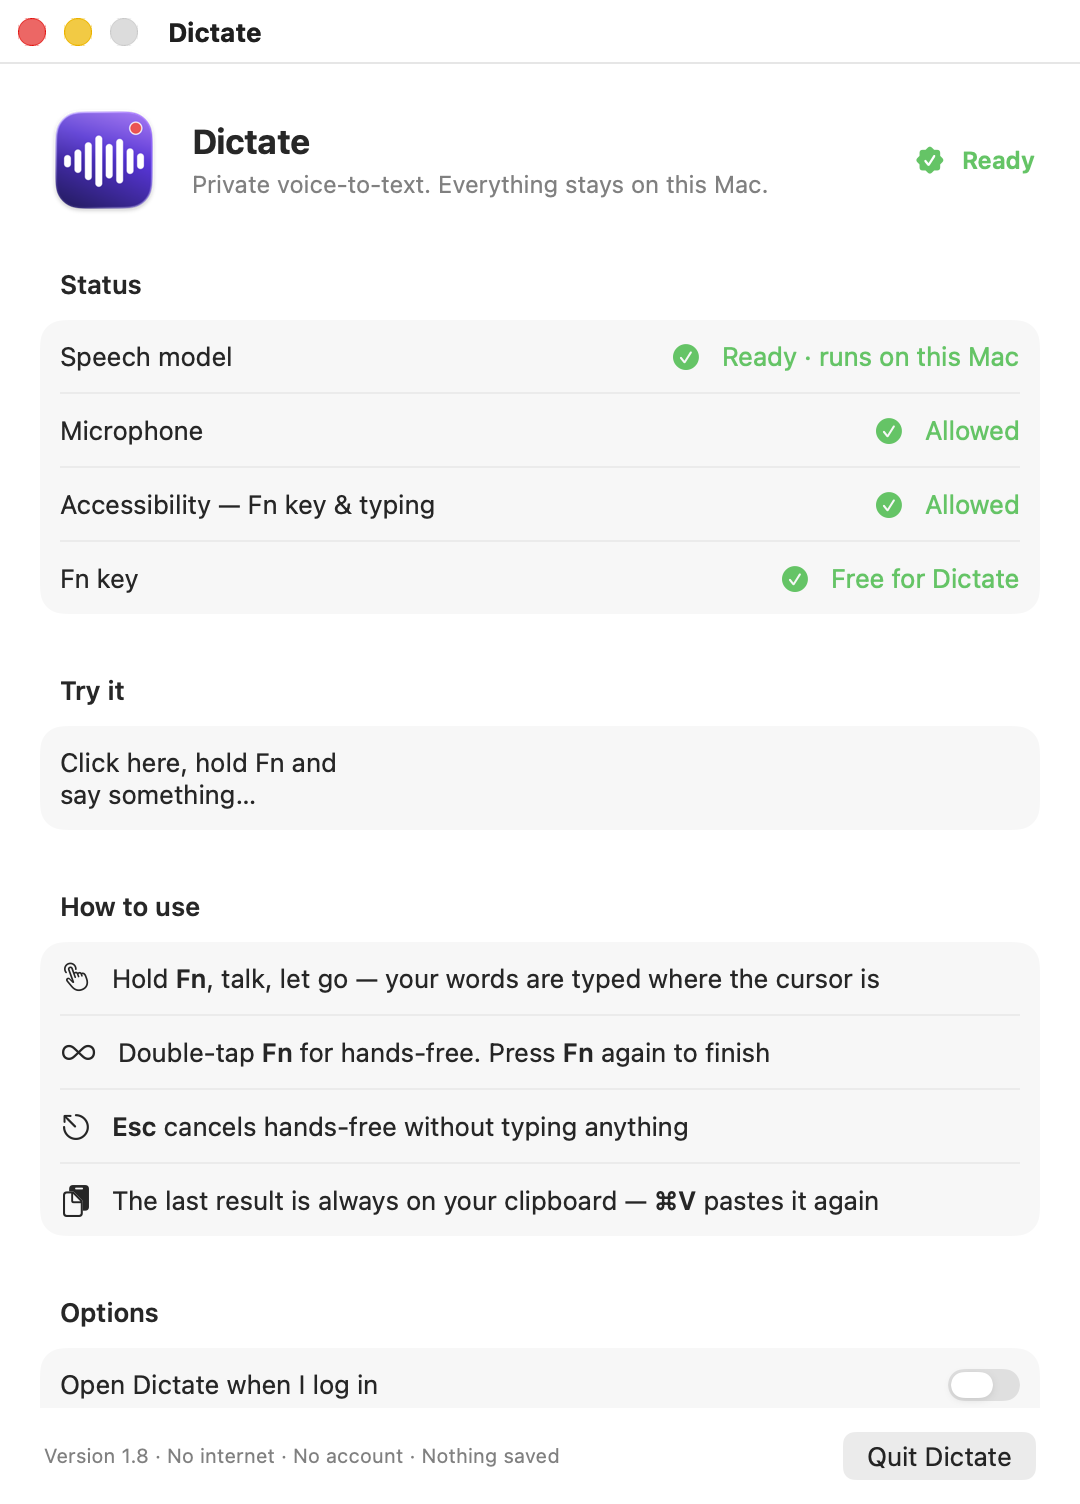
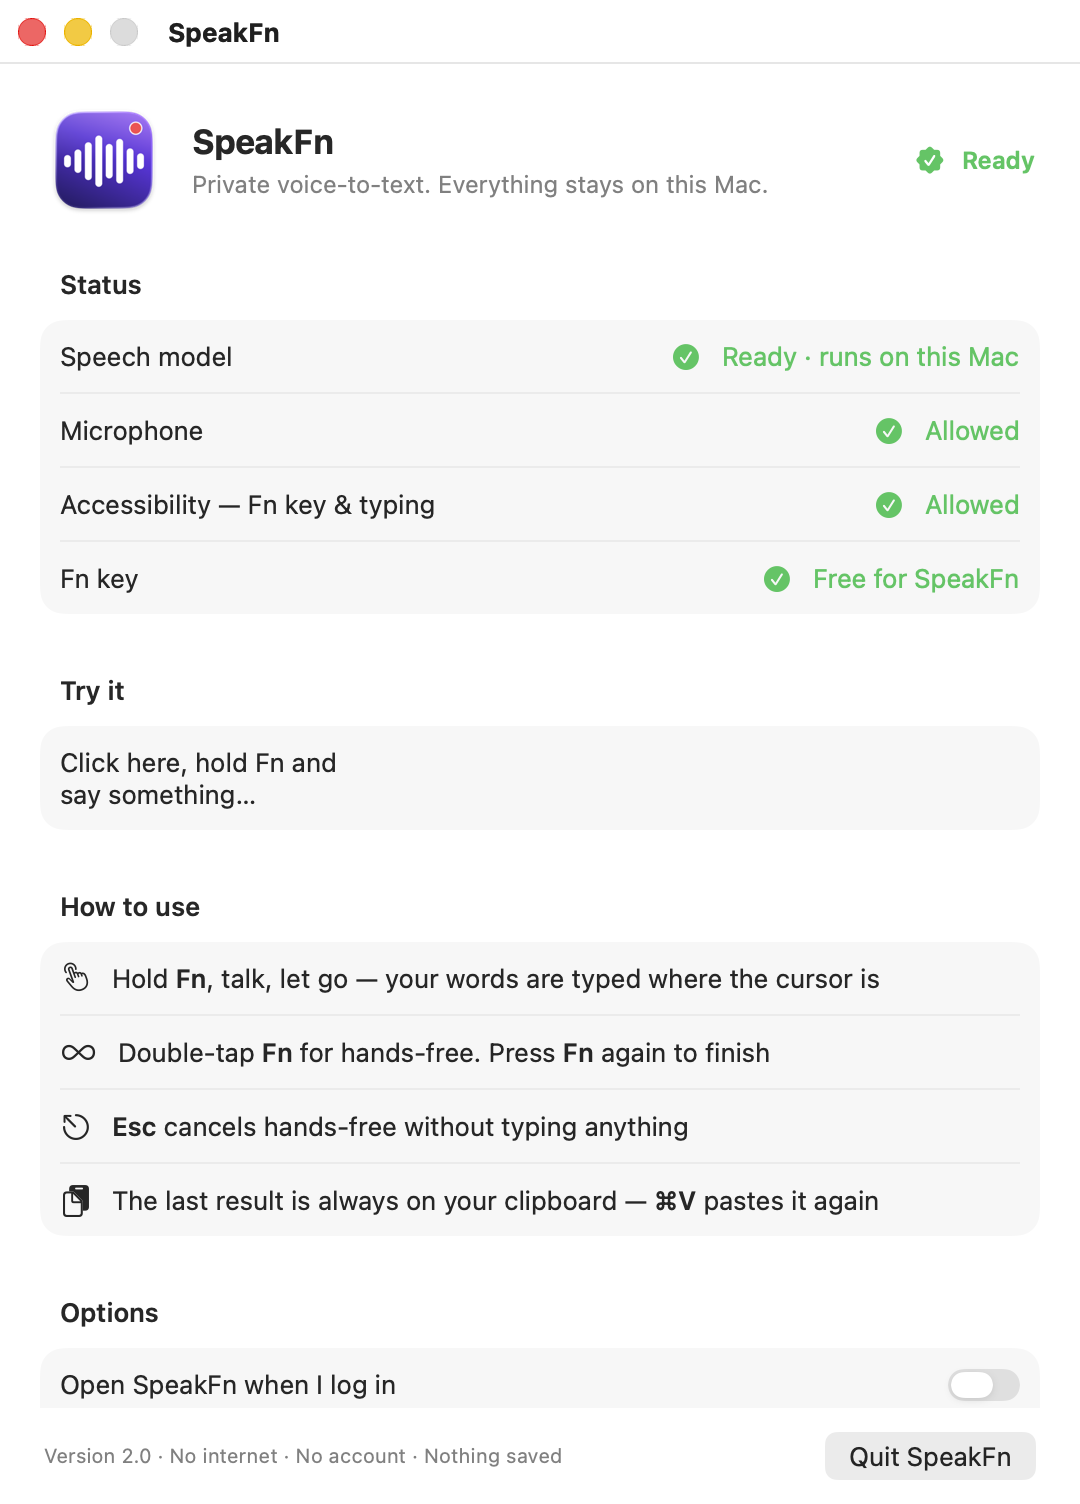
Rename Dictate to SpeakFn
"Dictate" matched over a thousand repositories, so the project gets a
distinctive name. Renames the app, Swift target, icon, build script, CI
and README, and refreshes the settings screenshot. The bundle identifier
stays local.dictate so existing permissions and preferences carry over.

diff --git a/Sources/SpeakFn/AppController.swift b/Sources/SpeakFn/AppController.swift
@@ -81,10 +81,10 @@ final class AppController: NSObject, NSApplicationDelegate {
         if !launchedAtLogin || !AXIsProcessTrusted() { settings.show() }
     }
 
-    /// Closing the window never quits — Dictate keeps listening for Fn until you choose Quit.
+    /// Closing the window never quits — SpeakFn keeps listening for Fn until you choose Quit.
     func applicationShouldTerminateAfterLastWindowClosed(_ sender: NSApplication) -> Bool { false }
 
-    /// Opening Dictate again (Finder, Spotlight, Dock) shows the Settings window.
+    /// Opening SpeakFn again (Finder, Spotlight, Dock) shows the Settings window.
     func applicationShouldHandleReopen(_ sender: NSApplication, hasVisibleWindows flag: Bool) -> Bool {
         settings.show()
         return true
@@ -402,18 +402,18 @@ final class AppController: NSObject, NSApplicationDelegate {
         case .loading:
             toaster.show(
                 ToastModel(
-                    symbol: "hourglass", tint: .blue, title: "Dictate is starting up",
+                    symbol: "hourglass", tint: .blue, title: "SpeakFn is starting up",
                     message: "The speech model is loading — try again in a few seconds."), seconds: 3)
         case .downloading:
             toaster.show(
                 ToastModel(
                     symbol: "arrow.down.circle", tint: .blue, title: "Downloading speech model",
-                    message: "This happens once. Dictate will be ready when it finishes."), seconds: 3)
+                    message: "This happens once. SpeakFn will be ready when it finishes."), seconds: 3)
         default:
             toaster.show(
                 ToastModel(
                     symbol: "exclamationmark.triangle.fill", tint: .orange, title: "Speech model not installed",
-                    message: "Open Dictate's settings to set it up.",
+                    message: "Open SpeakFn's settings to set it up.",
                     action: ToastAction(title: "Open") { [weak self] in self?.settings.show() }))
         }
     }
@@ -423,7 +423,7 @@ final class AppController: NSObject, NSApplicationDelegate {
             toaster.show(
                 ToastModel(
                     symbol: "mic.slash.fill", tint: .red, title: "Microphone access is off",
-                    message: "Allow Dictate to use the microphone in System Settings.",
+                    message: "Allow SpeakFn to use the microphone in System Settings.",
                     action: ToastAction(title: "Open") { openPrivacyPane("Privacy_Microphone") }))
         } else {
             toaster.show(
@@ -435,23 +435,23 @@ final class AppController: NSObject, NSApplicationDelegate {
 
     // MARK: Menu bar
 
-    /// The app's own menu bar (shown while Dictate is the active app).
+    /// The app's own menu bar (shown while SpeakFn is the active app).
     func buildMainMenu() {
         let main = NSMenu()
 
         let appItem = NSMenuItem()
         let appMenu = NSMenu()
-        appMenu.addItem(withTitle: "About Dictate", action: #selector(showAbout), keyEquivalent: "").target = self
+        appMenu.addItem(withTitle: "About SpeakFn", action: #selector(showAbout), keyEquivalent: "").target = self
         appMenu.addItem(.separator())
         appMenu.addItem(withTitle: "Settings…", action: #selector(openSettings), keyEquivalent: ",").target = self
         appMenu.addItem(.separator())
-        appMenu.addItem(withTitle: "Hide Dictate", action: #selector(NSApplication.hide(_:)), keyEquivalent: "h")
+        appMenu.addItem(withTitle: "Hide SpeakFn", action: #selector(NSApplication.hide(_:)), keyEquivalent: "h")
         let hideOthers = appMenu.addItem(
             withTitle: "Hide Others", action: #selector(NSApplication.hideOtherApplications(_:)), keyEquivalent: "h")
         hideOthers.keyEquivalentModifierMask = [.command, .option]
         appMenu.addItem(withTitle: "Show All", action: #selector(NSApplication.unhideAllApplications(_:)), keyEquivalent: "")
         appMenu.addItem(.separator())
-        appMenu.addItem(withTitle: "Quit Dictate", action: #selector(NSApplication.terminate(_:)), keyEquivalent: "q")
+        appMenu.addItem(withTitle: "Quit SpeakFn", action: #selector(NSApplication.terminate(_:)), keyEquivalent: "q")
         appItem.submenu = appMenu
         main.addItem(appItem)
 
@@ -498,7 +498,7 @@ final class AppController: NSObject, NSApplicationDelegate {
         menu.addItem(withTitle: "Copy Last Transcript", action: #selector(copyLast), keyEquivalent: "c")
         menu.addItem(withTitle: "Settings…", action: #selector(openSettings), keyEquivalent: ",")
         menu.addItem(.separator())
-        menu.addItem(withTitle: "Quit Dictate", action: #selector(quit), keyEquivalent: "q")
+        menu.addItem(withTitle: "Quit SpeakFn", action: #selector(quit), keyEquivalent: "q")
         for item in menu.items where item.action != nil { item.target = self }
         statusItem.menu = menu
         indicator = MenuBarIndicator(item: statusItem, meter: meter)

diff --git a/Sources/SpeakFn/Settings.swift b/Sources/SpeakFn/Settings.swift
@@ -41,7 +41,7 @@ final class Prefs: ObservableObject {
     @Published var accessibilityAllowed = false
     /// macOS's "Press 🌐 key to" setting must be "Do Nothing", or Fn also opens the emoji picker etc.
     @Published var fnKeyFree = true
-    /// Recent transcripts — memory only, gone when Dictate quits.
+    /// Recent transcripts — memory only, gone when SpeakFn quits.
     @Published var history: [HistoryItem] = []
 
     private init() {
@@ -152,7 +152,7 @@ struct SettingsView: View {
         HStack(spacing: 14) {
             Image(nsImage: NSApp.applicationIconImage).resizable().frame(width: 60, height: 60)
             VStack(alignment: .leading, spacing: 3) {
-                Text("Dictate").font(.title2.weight(.bold))
+                Text("SpeakFn").font(.title2.weight(.bold))
                 Text("Private voice-to-text. Everything stays on this Mac.")
                     .font(.callout).foregroundStyle(.secondary)
             }
@@ -195,7 +195,7 @@ struct SettingsView: View {
                 ok: prefs.accessibilityAllowed, actionTitle: "Fix…",
                 action: { openPrivacyPane("Privacy_Accessibility") })
             StatusRow(
-                title: "Fn key", detail: prefs.fnKeyFree ? "Free for Dictate" : "Also used by macOS",
+                title: "Fn key", detail: prefs.fnKeyFree ? "Free for SpeakFn" : "Also used by macOS",
                 ok: prefs.fnKeyFree, actionTitle: "Fix…",
                 action: {
                     NSWorkspace.shared.open(URL(string: "x-apple.systempreferences:com.apple.Keyboard-Settings.extension")!)
@@ -210,7 +210,7 @@ struct SettingsView: View {
     private var optionsSection: some View {
         Section("Options") {
             Toggle(
-                "Open Dictate when I log in",
+                "Open SpeakFn when I log in",
                 isOn: Binding(get: { prefs.launchAtLogin }, set: { prefs.setLaunchAtLogin($0) }))
             if prefs.loginNeedsApproval {
                 HStack {
@@ -221,7 +221,7 @@ struct SettingsView: View {
             }
             Toggle("Type the text for me (off = copy to clipboard only)", isOn: $prefs.autoPaste)
             Toggle("Show the recording pill", isOn: $prefs.showPill)
-            Toggle("Show Dictate in the Dock (off = menu bar only)", isOn: $prefs.showInDock)
+            Toggle("Show SpeakFn in the Dock (off = menu bar only)", isOn: $prefs.showInDock)
             Toggle("Play sounds", isOn: $prefs.sounds)
             if prefs.sounds {
                 HStack(spacing: 10) {
@@ -262,7 +262,7 @@ struct SettingsView: View {
             Text("Version \(appVersion) · No internet · No account · Nothing saved")
                 .font(.caption).foregroundStyle(.secondary)
             Spacer()
-            Button("Quit Dictate") { NSApp.terminate(nil) }
+            Button("Quit SpeakFn") { NSApp.terminate(nil) }
         }
         .padding(.horizontal, 22).padding(.vertical, 12)
     }
@@ -286,7 +286,7 @@ private struct CopyButton: View {
     }
 }
 
-/// While the Settings window is open Dictate shows in the Dock and ⌘-Tab; otherwise it lives in the menu bar.
+/// While the Settings window is open SpeakFn shows in the Dock and ⌘-Tab; otherwise it lives in the menu bar.
 final class SettingsWindowController: NSObject, NSWindowDelegate {
     private var window: NSWindow?
     var onDownloadModel: () -> Void = {}
@@ -296,7 +296,7 @@ final class SettingsWindowController: NSObject, NSWindowDelegate {
             let w = NSWindow(
                 contentRect: NSRect(x: 0, y: 0, width: 540, height: 720),
                 styleMask: [.titled, .closable, .miniaturizable], backing: .buffered, defer: false)
-            w.title = "Dictate"
+            w.title = "SpeakFn"
             w.isReleasedWhenClosed = false
             w.contentViewController = NSHostingController(
                 rootView: SettingsView(onDownloadModel: { [weak self] in self?.onDownloadModel() }))
@@ -310,7 +310,7 @@ final class SettingsWindowController: NSObject, NSWindowDelegate {
         window?.makeKeyAndOrderFront(nil)
     }
 
-    /// Closing the window keeps Dictate running (Fn still works). Only Quit stops it.
+    /// Closing the window keeps SpeakFn running (Fn still works). Only Quit stops it.
     func windowWillClose(_ notification: Notification) {
         Prefs.shared.applyDockPolicy(windowOpen: false)
     }

diff --git a/Sources/SpeakFn/Support.swift b/Sources/SpeakFn/Support.swift
@@ -11,7 +11,7 @@ let appVersion = Bundle.main.object(forInfoDictionaryKey: "CFBundleShortVersionS
 // MARK: - Diagnostic log
 // Off by default. Records key events and state changes only — never audio or transcript text.
 
-let logURL = FileManager.default.homeDirectoryForCurrentUser.appendingPathComponent("Library/Logs/Dictate.log")
+let logURL = FileManager.default.homeDirectoryForCurrentUser.appendingPathComponent("Library/Logs/SpeakFn.log")
 private let logQueue = DispatchQueue(label: "dictate.log")
 private let logFormatter = ISO8601DateFormatter()
 

diff --git a/Package.swift b/Package.swift
@@ -2,16 +2,16 @@
 import PackageDescription
 
 let package = Package(
-    name: "Dictate",
+    name: "SpeakFn",
     platforms: [.macOS(.v14)],
     dependencies: [
         .package(url: "https://github.com/FluidInference/FluidAudio.git", from: "0.7.0"),
     ],
     targets: [
         .executableTarget(
-            name: "Dictate",
+            name: "SpeakFn",
             dependencies: [.product(name: "FluidAudio", package: "FluidAudio")],
-            path: "Sources/Dictate"
+            path: "Sources/SpeakFn"
         ),
     ]
 )

diff --git a/Sources/SpeakFn/MenuBarIndicator.swift b/Sources/SpeakFn/MenuBarIndicator.swift
@@ -41,7 +41,7 @@ final class MenuBarIndicator {
 
     private func showIdle() {
         guard let button = item.button else { return }
-        let image = NSImage(systemSymbolName: "waveform", accessibilityDescription: "Dictate")
+        let image = NSImage(systemSymbolName: "waveform", accessibilityDescription: "SpeakFn")
         image?.isTemplate = true
         button.image = image
         button.attributedTitle = NSAttributedString(string: "")

diff --git a/scripts/make-icon.swift b/scripts/make-icon.swift
@@ -1,5 +1,5 @@
 import AppKit
-// Draws the Dictate icon: a deep indigo→violet rounded square with a white voice waveform and a red "live" dot.
+// Draws the SpeakFn icon: a deep indigo→violet rounded square with a white voice waveform and a red "live" dot.
 let size: CGFloat = 1024
 let img = NSImage(size: NSSize(width: size, height: size))
 img.lockFocus()

diff --git a/Sources/SpeakFn/main.swift b/Sources/SpeakFn/main.swift
@@ -1,4 +1,4 @@
-// Dictate — private, fully local push-to-talk dictation for macOS.
+// SpeakFn — private, fully local push-to-talk dictation for macOS.
 // Entry point. `--transcribe <file>` prints a transcript (handy for checking the model).
 
 import AppKit

diff --git a/README.md b/README.md
@@ -1,15 +1,15 @@
 <p align="center">
-  <img src="icon/icon-1024.png" width="128" alt="Dictate app icon">
+  <img src="icon/icon-1024.png" width="128" alt="SpeakFn app icon">
 </p>
 
-<h1 align="center">Dictate</h1>
+<h1 align="center">SpeakFn</h1>
 
 <p align="center">
   Hold Fn, talk, and let go. Your words show up wherever you're typing.
 </p>
 
 <p align="center">
-  <a href="https://github.com/Wave-Drop-Maps/Dictate/actions/workflows/build.yml"><img src="https://github.com/Wave-Drop-Maps/Dictate/actions/workflows/build.yml/badge.svg" alt="Build status"></a>
+  <a href="https://github.com/Wave-Drop-Maps/SpeakFn/actions/workflows/build.yml"><img src="https://github.com/Wave-Drop-Maps/SpeakFn/actions/workflows/build.yml/badge.svg" alt="Build status"></a>
   <img src="https://img.shields.io/badge/macOS-14%2B-black?logo=apple" alt="macOS 14 or later">
   <img src="https://img.shields.io/badge/Apple%20Silicon-M1%2B-black" alt="Apple Silicon">
   <img src="https://img.shields.io/badge/Swift-5.10-F05138?logo=swift&logoColor=white" alt="Swift 5.10">
@@ -23,18 +23,19 @@
   <img src="docs/notice.png" width="364" alt="The notice shown when no text box is selected, with a Copy button">
 </p>
 
-Dictate is a free, open-source dictation app for the Mac. It runs entirely on your computer, so there's no
-account, no subscription and no word limit, and nothing you say is ever sent anywhere.
+SpeakFn is a free, open-source dictation app for the Mac, and an offline alternative to Wispr Flow and
+Superwhisper. It runs entirely on your computer, so there's no account, no subscription and no word limit, and
+nothing you say is ever sent anywhere.
 
-## Why Dictate?
+## Why SpeakFn?
 
 Most dictation apps send your voice to their servers to turn it into text. Many also collect the text around
 your cursor for context, charge a monthly fee, and limit how much you can say on the free plan.
 
-Dictate does the work on your Mac instead. It uses NVIDIA's Parakeet speech model running on the Neural Engine,
+SpeakFn does the work on your Mac instead. It uses NVIDIA's Parakeet speech model running on the Neural Engine,
 which makes it fast and accurate, and it keeps working with your Wi-Fi switched off.
 
-| | Typical cloud dictation app | Dictate |
+| | Typical cloud dictation app | SpeakFn |
 |---|---|---|
 | Where your voice goes | Their servers | Nowhere. It stays on your Mac. |
 | Account | Required | Not needed |
@@ -50,7 +51,7 @@ which makes it fast and accurate, and it keeps working with your Wi-Fi switched 
 - **Every result is copied too.** If the text doesn't land where you expected, just press ⌘V.
 - **It tells you when there's nowhere to type.** If no text box is selected, you'll see a small notice with a
   Copy button rather than your words quietly disappearing. This works in regular apps and in your browser.
-- **Smart spacing.** Dictate adds a space when you start talking straight after a word.
+- **Smart spacing.** SpeakFn adds a space when you start talking straight after a word.
 - **You can always tell it's listening.** A small waveform appears at the bottom of the screen and the menu bar
   shows a timer while you talk.
 - **It stays out of your way.** Your usual Fn shortcuts, like Fn with an arrow key, still work, and accidental
@@ -58,7 +59,7 @@ which makes it fast and accurate, and it keeps working with your Wi-Fi switched 
 - **It's lightweight.** It's about 1,600 lines of Swift, and when idle it uses no CPU and around 30 MB of memory.
 
 <p align="center">
-  <img src="docs/settings.png" width="460" alt="Dictate's settings window, showing setup status, instructions and options">
+  <img src="docs/settings.png" width="460" alt="SpeakFn's settings window, showing setup status, instructions and options">
 </p>
 
 ## What you need
@@ -69,35 +70,35 @@ which makes it fast and accurate, and it keeps working with your Wi-Fi switched 
 ## Installing
 
 ```bash
-git clone https://github.com/Wave-Drop-Maps/Dictate.git
-cd Dictate
+git clone https://github.com/Wave-Drop-Maps/SpeakFn.git
+cd SpeakFn
 ./build-app.sh
 ```
 
 The first build downloads [FluidAudio](https://github.com/FluidInference/FluidAudio), so give it a few minutes.
-When it's done, Dictate is in your Applications folder and you can open it like any other app.
+When it's done, SpeakFn is in your Applications folder and you can open it like any other app.
 
 ### The first time you open it
 
-1. **Download the speech model.** Click **Download (470 MB)** in Dictate's window. This is the only time
-   Dictate uses the internet.
+1. **Download the speech model.** Click **Download (470 MB)** in SpeakFn's window. This is the only time
+   SpeakFn uses the internet.
 2. **Allow the microphone** when macOS asks.
-3. **Turn on Accessibility.** Go to System Settings → Privacy & Security → Accessibility and switch on Dictate.
+3. **Turn on Accessibility.** Go to System Settings → Privacy & Security → Accessibility and switch on SpeakFn.
    It needs this to notice the Fn key and type for you.
 4. **Free up the Fn key.** Go to System Settings → Keyboard and set **Press 🌐 key to** to **Do Nothing**.
    Otherwise Fn will also open the emoji picker.
-5. **Optional:** switch on **Open Dictate when I log in**.
+5. **Optional:** switch on **Open SpeakFn when I log in**.
 
-Each step gets a green tick in Dictate's window once it's done. Closing the window doesn't quit the app, so Fn
+Each step gets a green tick in SpeakFn's window once it's done. Closing the window doesn't quit the app, so Fn
 keeps working. To quit, use the menu bar icon, the Dock, or ⌘Q.
 
 ## Privacy
 
-- After the one-time model download, Dictate never connects to the internet. There are no analytics, no crash
+- After the one-time model download, SpeakFn never connects to the internet. There are no analytics, no crash
   reports and no account.
 - Your audio is kept in memory only while you're talking, then thrown away.
 - Transcripts are never saved to disk. The Recent list in Settings is cleared when you quit.
-- To decide whether it can paste, Dictate asks macOS what kind of control is selected, such as a text box, a list
+- To decide whether it can paste, SpeakFn asks macOS what kind of control is selected, such as a text box, a list
   or a button. It never reads what's inside. The only text it looks at is the single character before your
   cursor, so it knows whether to add a space.
 - There's an optional diagnostic log, which is off by default. It records key presses and app states, never
@@ -109,15 +110,15 @@ The code is split into a handful of small files:
 
 | What it does | File |
 |---|---|
-| Handles the Fn key and delivers the text | [`AppController.swift`](Sources/Dictate/AppController.swift) |
-| Records from the microphone | [`Recorder.swift`](Sources/Dictate/Recorder.swift) |
-| Turns speech into text with Parakeet | [`Transcriber.swift`](Sources/Dictate/Transcriber.swift) |
-| Finds the text box, adds spacing and pastes | [`TextInsertion.swift`](Sources/Dictate/TextInsertion.swift) |
-| Draws the waveform pill and notices | [`Overlay.swift`](Sources/Dictate/Overlay.swift) |
-| Shows the status in the menu bar | [`MenuBarIndicator.swift`](Sources/Dictate/MenuBarIndicator.swift) |
-| Settings window and preferences | [`Settings.swift`](Sources/Dictate/Settings.swift) |
+| Handles the Fn key and delivers the text | [`AppController.swift`](Sources/SpeakFn/AppController.swift) |
+| Records from the microphone | [`Recorder.swift`](Sources/SpeakFn/Recorder.swift) |
+| Turns speech into text with Parakeet | [`Transcriber.swift`](Sources/SpeakFn/Transcriber.swift) |
+| Finds the text box, adds spacing and pastes | [`TextInsertion.swift`](Sources/SpeakFn/TextInsertion.swift) |
+| Draws the waveform pill and notices | [`Overlay.swift`](Sources/SpeakFn/Overlay.swift) |
+| Shows the status in the menu bar | [`MenuBarIndicator.swift`](Sources/SpeakFn/MenuBarIndicator.swift) |
+| Settings window and preferences | [`Settings.swift`](Sources/SpeakFn/Settings.swift) |
 
-You can also run `Dictate --transcribe recording.wav` to print a transcript of an audio file, which is handy for
+You can also run `SpeakFn --transcribe recording.wav` to print a transcript of an audio file, which is handy for
 testing the model. The icon is drawn by [`scripts/make-icon.swift`](scripts/make-icon.swift).
 
 ## Good to know
@@ -137,4 +138,4 @@ testing the model. The icon is drawn by [`scripts/make-icon.swift`](scripts/make
 
 ## License
 
-Dictate is released under the [MIT License](LICENSE).
+SpeakFn is released under the [MIT License](LICENSE).
